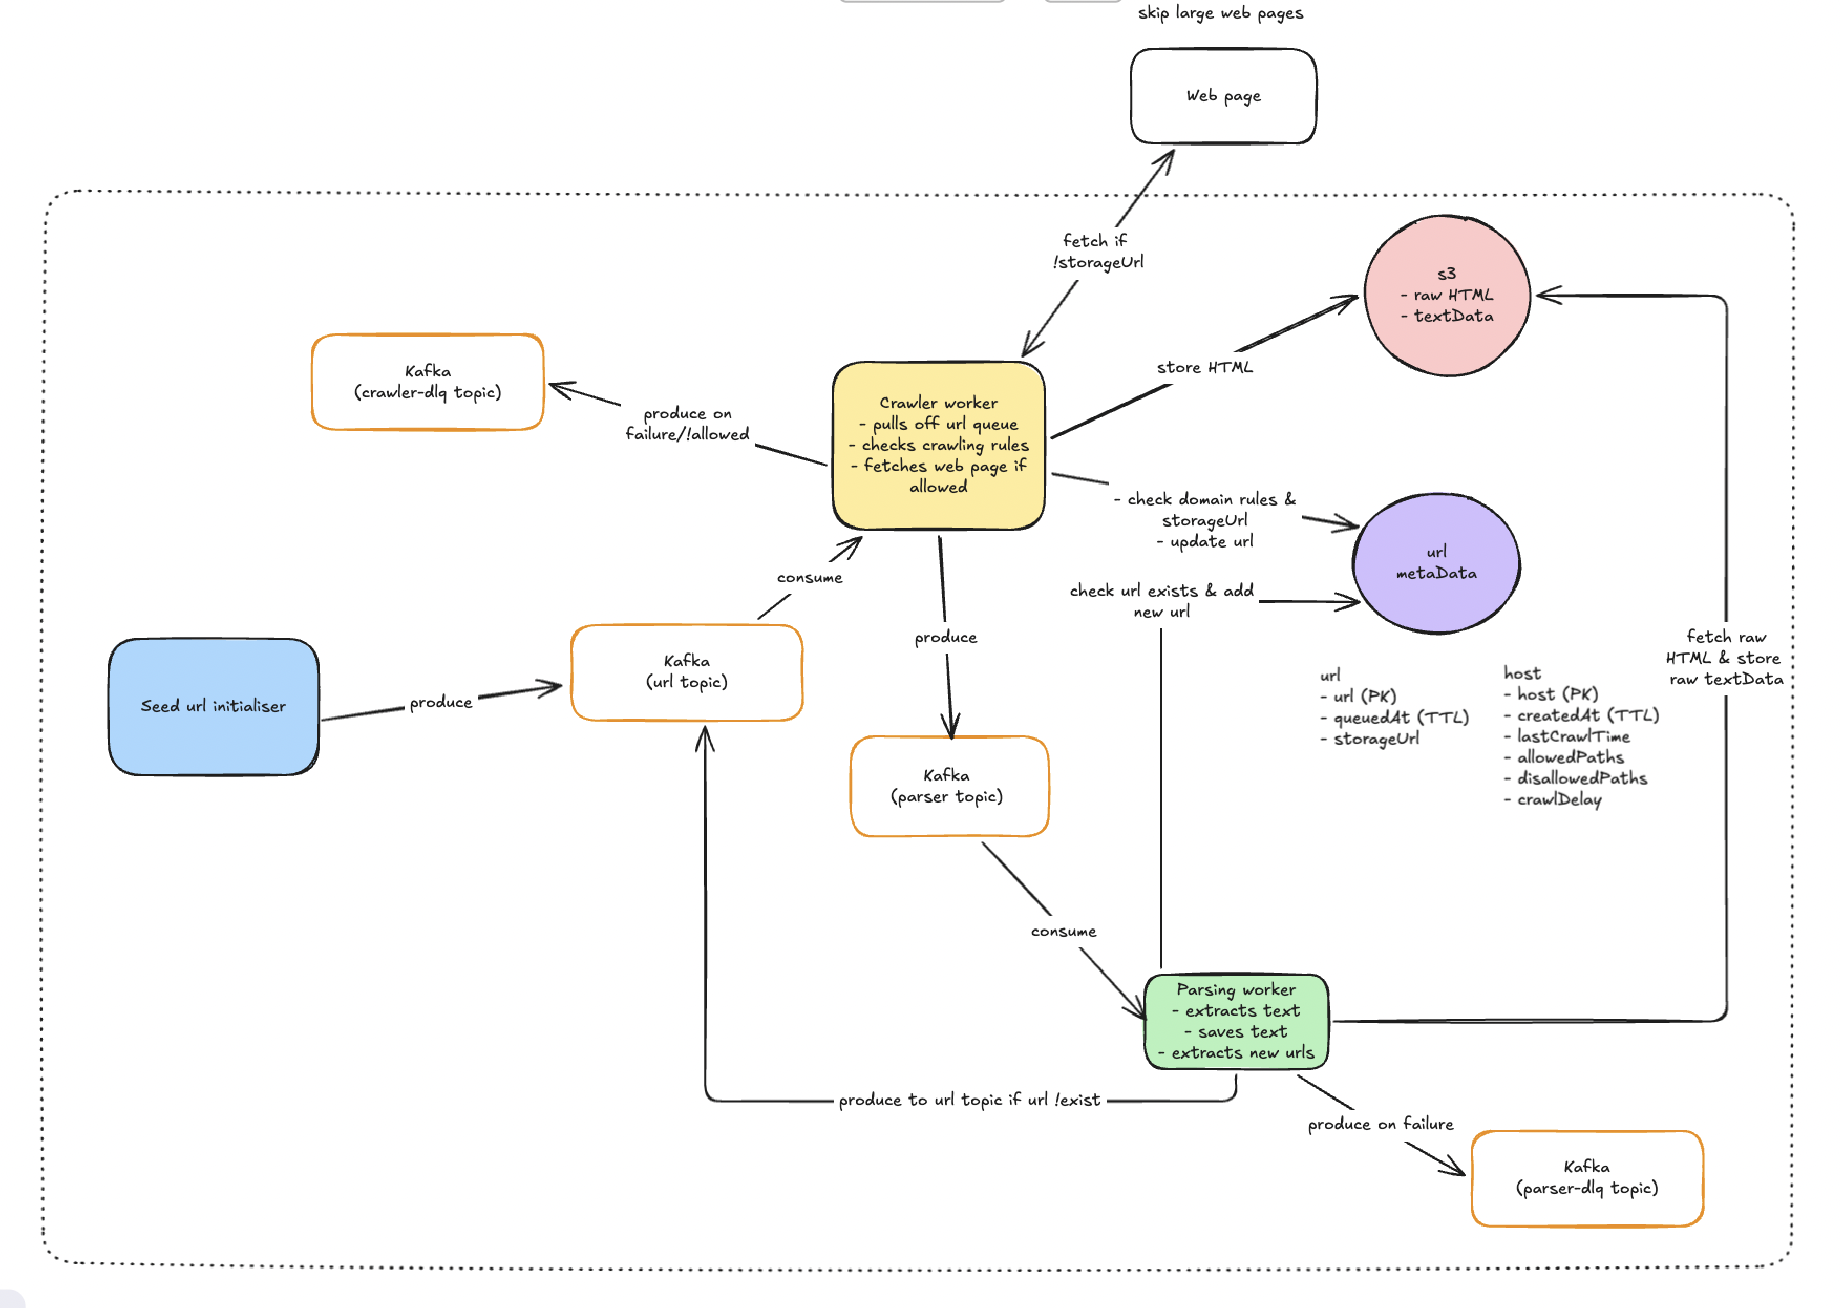
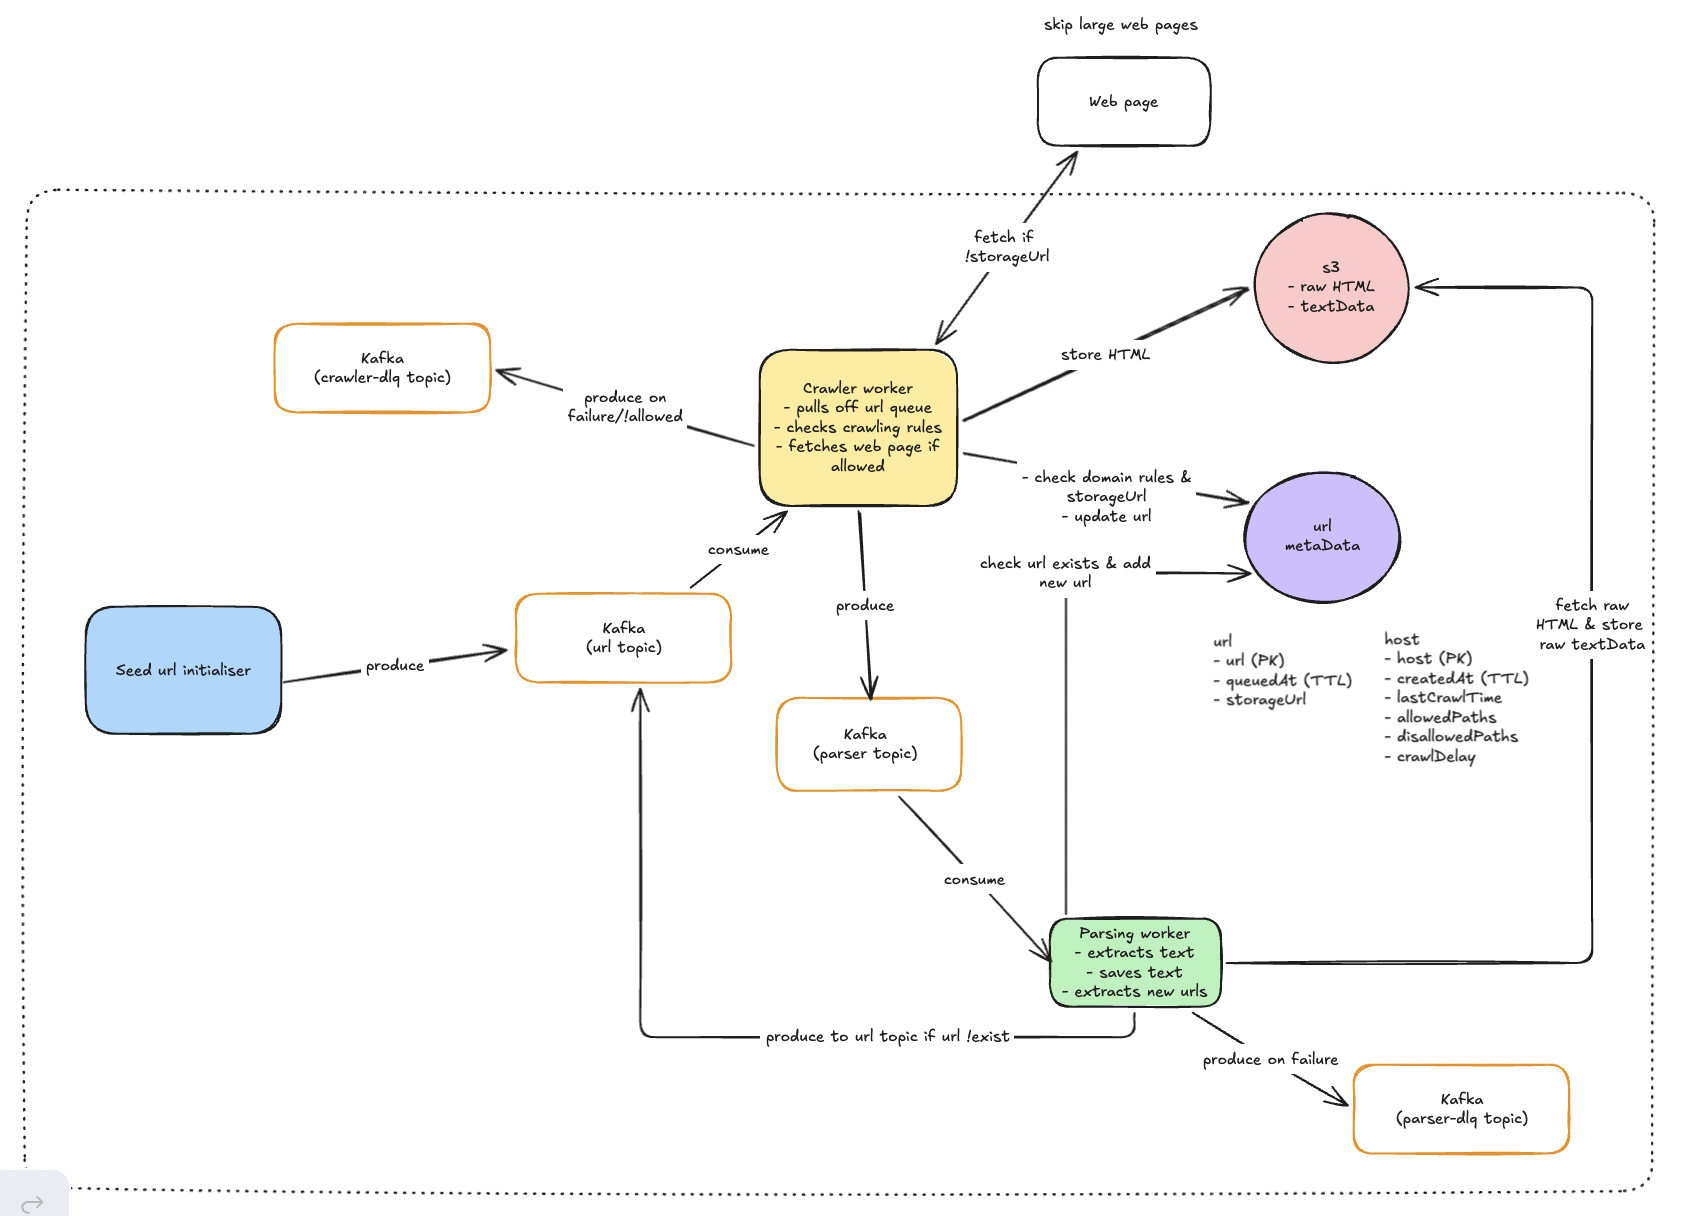
Fix parser deployment

diff --git a/services/crawler/consumer/robots.go b/services/crawler/consumer/robots.go
@@ -15,7 +15,7 @@ import (
 	"github.com/marie20767/web-crawler/shared/httperr"
 )
 
-type robots struct {
+type Robots struct {
 	CrawlDelay      string   `bson:"crawlDelay"`
 	AllowedPaths    []string `bson:"allowedPaths"`
 	DisallowedPaths []string `bson:"disallowedPaths"`
@@ -52,7 +52,7 @@ func (c *Consumer) fetchRobots(ctx context.Context, scheme, host string) (data [
 	return robotsData, nil
 }
 
-func parseRobots(robotsData []byte) robots {
+func parseRobots(robotsData []byte) Robots {
 	scanner := bufio.NewScanner(bytes.NewReader(robotsData))
 
 	const keyValLen = 2
@@ -122,7 +122,7 @@ func parseRobots(robotsData []byte) robots {
 		crawlDelay = groupDelay
 	}
 
-	return robots{
+	return Robots{
 		AllowedPaths:    allowed,
 		DisallowedPaths: disallowed,
 		CrawlDelay:      crawlDelay.String(),

diff --git a/services/crawler/consumer/ratelimit.go b/services/crawler/consumer/ratelimit.go
@@ -16,7 +16,7 @@ import (
 const defaultCrawlDelay = 1 * time.Second
 
 type hostRecord struct {
-	Robots        robots    `bson:"robots"`
+	Robots        Robots    `bson:"robots"`
 	LastCrawlTime time.Time `bson:"lastCrawlTime"`
 }
 
@@ -74,7 +74,7 @@ func (c *Consumer) handleNewRobots(ctx context.Context, record *hostRecord, sche
 	case err != nil:
 		return err
 	case robotsData == nil:
-		record.Robots = robots{
+		record.Robots = Robots{
 			CrawlDelay:      defaultCrawlDelay.String(),
 			AllowedPaths:    nil,
 			DisallowedPaths: nil,